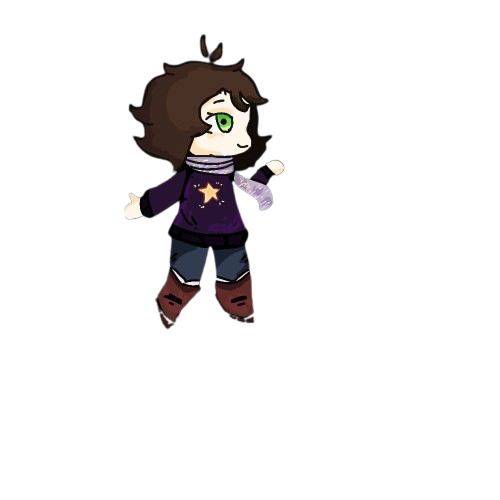
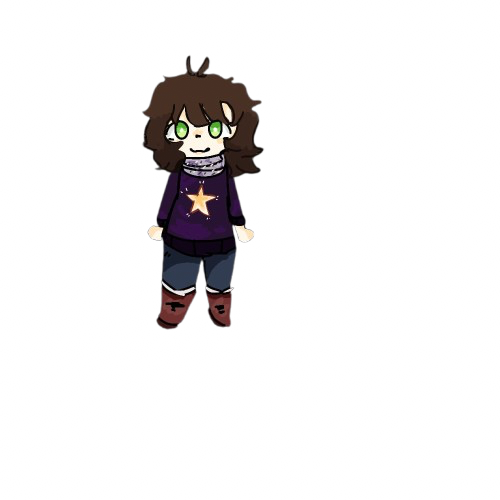
pictures added and player class fixes

Changed region(s): [[0.24, 0.06, 0.57, 0.66]]

diff --git a/js/player.js b/js/player.js
@@ -1,88 +1,104 @@
 class Player {
-    constructor(canvasWidth, canvasHeight) {
-        this.x = canvasWidth / 2; // Start at the center of the canvas
-        this.y = canvasHeight - 100; // Position at the bottom
-        this.width = 300; // Desired width for player
-        this.height = 300; // Desired height for player
-        this.lifeBar = 6; // Health can withstand 6 knife hits
-        this.weaponBar = 0; // Initially no weapons
-        this.isShieldActive = false; // No shield at start
-        this.isWeaponActive = false; // Weapon isn't active at start
-        this.shieldDuration = 0; // Shield lasts 5 seconds
-        this.weaponDuration = 0; // Weapon lasts 5 seconds
+    constructor(xPosition, yPosition) {
+        // Initialize the player properties
+        this.xPosition = xPosition;
+        this.yPosition = yPosition;
+        this.width = 100;
+        this.height = 100;
+        this.health = 100;
+        this.strength = 50;
+        this.power = 100;
+        this.direction = "left";
 
-        // Load images for player
+        // Initialize image
         this.image = new Image();
-        this.image.src = '../images/player.png'; // Replace with actual image source
+        this.image.src = './images/player-left.png'; // Default image
+        this.imageLoaded = false;
 
-        // Ensure the image is loaded before drawing
+        // When the image is loaded, set the flag to true
         this.image.onload = () => {
-            this.imageLoaded = true; // Flag to check if image is loaded
+            this.imageLoaded = true;
         };
-        this.imageLoaded = false; // Initially false
     }
 
-    // Move the player left or right based on user input
-    move(direction) {
-        if (direction === 'left') {
-            this.x -= 5;
-        } else if (direction === 'right') {
-            this.x += 5;
+    moveRight(canvasWidth) {
+        if (this.xPosition + this.width < canvasWidth) {
+            this.direction = "right";
+            this.image.src = './images/player-right.png'; // Update image
+            this.xPosition += 6; // Move player to the right
+        }
+    }
+
+    moveLeft() {
+        if (this.xPosition > 0) {
+            this.direction = "left";
+            this.image.src = './images/player-left.png'; // Update image
+            this.xPosition -= 6; // Move player to the left
         }
     }
 
     // Collect item (weapon or shield)
     collect(item) {
         if (item.type === 'weapon') {
-            this.weaponBar += 1; // Increase weapon count
-            this.weaponDuration = 5; // Activate weapon for 5 seconds
+            this.power += 10; // Increase power
         } else if (item.type === 'shield') {
             this.isShieldActive = true; // Activate shield
-            this.shieldDuration = 5; // Shield lasts 5 seconds
         }
     }
 
     // Handle being hit by a knife or enemy
     hit(type) {
         if (type === 'knife' && !this.isShieldActive) {
-            this.lifeBar -= 1;
+            this.health -= 10; // Decrease health when hit by knife
         } else if (type === 'killer' && !this.isShieldActive) {
-            this.lifeBar -= 1;
+            this.health -= 20; // Decrease health more if hit by killer
         }
 
-        // If the player has no life left, game over
-        if (this.lifeBar <= 0) {
-            return true; // Game over
+        if (this.health <= 0) {
+            return true; // Game over if health is zero or below
         }
         return false;
     }
 
-    // Update the status of the player (e.g., deactivate shield and weapon over time)
+    // Update the status of the player (e.g., deactivate shield and power over time)
     update() {
         if (this.shieldDuration > 0) {
             this.shieldDuration -= 1; // Decrease shield duration
         } else {
-            this.isShieldActive = false; // Deactivate shield
+            this.isShieldActive = false; // Deactivate shield when duration ends
         }
 
         if (this.weaponDuration > 0) {
             this.weaponDuration -= 1; // Decrease weapon duration
         } else {
-            this.isWeaponActive = false; // Deactivate weapon
+            this.isWeaponActive = false; // Deactivate weapon when duration ends
         }
     }
 
     // Draw player on the canvas
     draw(ctx) {
         if (this.imageLoaded) {
-            ctx.drawImage(this.image, this.x, this.y, this.width, this.height);
+            ctx.drawImage(this.image, this.xPosition, this.yPosition, this.width, this.height);
         } else {
             // Optionally, display a placeholder or message while the image loads
             ctx.fillStyle = "black";
-            ctx.fillText("Loading player image...", this.x, this.y);
+            ctx.fillText("Loading player image...", this.xPosition, this.yPosition);
         }
     }
-    
+
+    // Update health bar (pass in context to draw on the canvas)
+    updateHealthBar(ctx) {
+        const healthBarWidth = (this.health / 100) * 168; // Health bar width based on health percentage
+        ctx.fillStyle = '#ff0000';
+        ctx.fillRect(52, 35, healthBarWidth, 35); // Draw health bar
+    }
+
+    // Update power bar (pass in context to draw on the canvas)
+    updatePowerBar(ctx) {
+        const powerBarWidth = (this.power / 100) * 168; // Power bar width based on power percentage
+        ctx.fillStyle = '#64a5d9';
+        ctx.fillRect(52, 90, powerBarWidth, 35); // Draw power bar
+    }
 }
 
 // Create the canvas and context
@@ -90,7 +106,7 @@ const canvas = document.getElementById('gameCanvas');
 const ctx = canvas.getContext('2d');
 
 // Create a new player
-const player = new Player(canvas.width, canvas.height);
+const player = new Player(canvas.width / 2 - 50, canvas.height - 120);
 
 // Game loop to update and draw the player
 function gameLoop() {
@@ -102,6 +118,10 @@ function gameLoop() {
 
     // Draw the player on the canvas
     player.draw(ctx);
+
+    // Update health and power bars
+    player.updateHealthBar(ctx);
+    player.updatePowerBar(ctx);
 
     // Repeat the game loop
     requestAnimationFrame(gameLoop);

diff --git a/styles/styles.css b/styles/styles.css
@@ -62,35 +62,25 @@ body {
 }
 
 
-/* Player, Enemies, Items */
-#player {
-  position: absolute;
-  bottom: 20px;
-  left: 50%;
-  transform: translateX(-50%);
-  width: 50px;
-  height: 100px;
-  background-color: #3498db;
-}
 
-#enemies {
+/*#enemies {
   position: absolute;
   top: 20px;
   left: 50%;
   transform: translateX(-50%);
   width: 200px;
   height: 100px;
-  background-color: red;
-}
+  background-color: rgb(71, 62, 62);
+}*/
 
-#items {
+/*#items {
   position: absolute;
   top: 20px;
   right: 20px;
   width: 50px;
   height: 50px;
-  background-color: green;
-}
+  background-color: rgb(74, 75, 74);
+}*/
 
 /* Heads-Up Display (HUD) */
 #hud {

diff --git a/js/index.js b/js/index.js
@@ -70,8 +70,8 @@ document.addEventListener("DOMContentLoaded", () => {
 
     window.onload = () => {
         // Display only splash screen
-        startGameScreen.style.display = "flex";
-        mainGameScreen.style.display = "none";
+        gameScreen.style.display = "flex";
+        startScreen.style.display = "none";
         gameOverScreen.style.display = "none";
         canvas.style.display = "none";
     

diff --git a/index.html b/index.html
@@ -26,6 +26,7 @@
 
       <!-- HUD (Heads-Up Display) -->
       <div id="hud">
+        <div id="health-bar">Weapon</div>
         <div id="weapon-bar">Weapon</div>
         <div id="shield-status">Shield</div>
         <div id="score">Score: 0</div>
